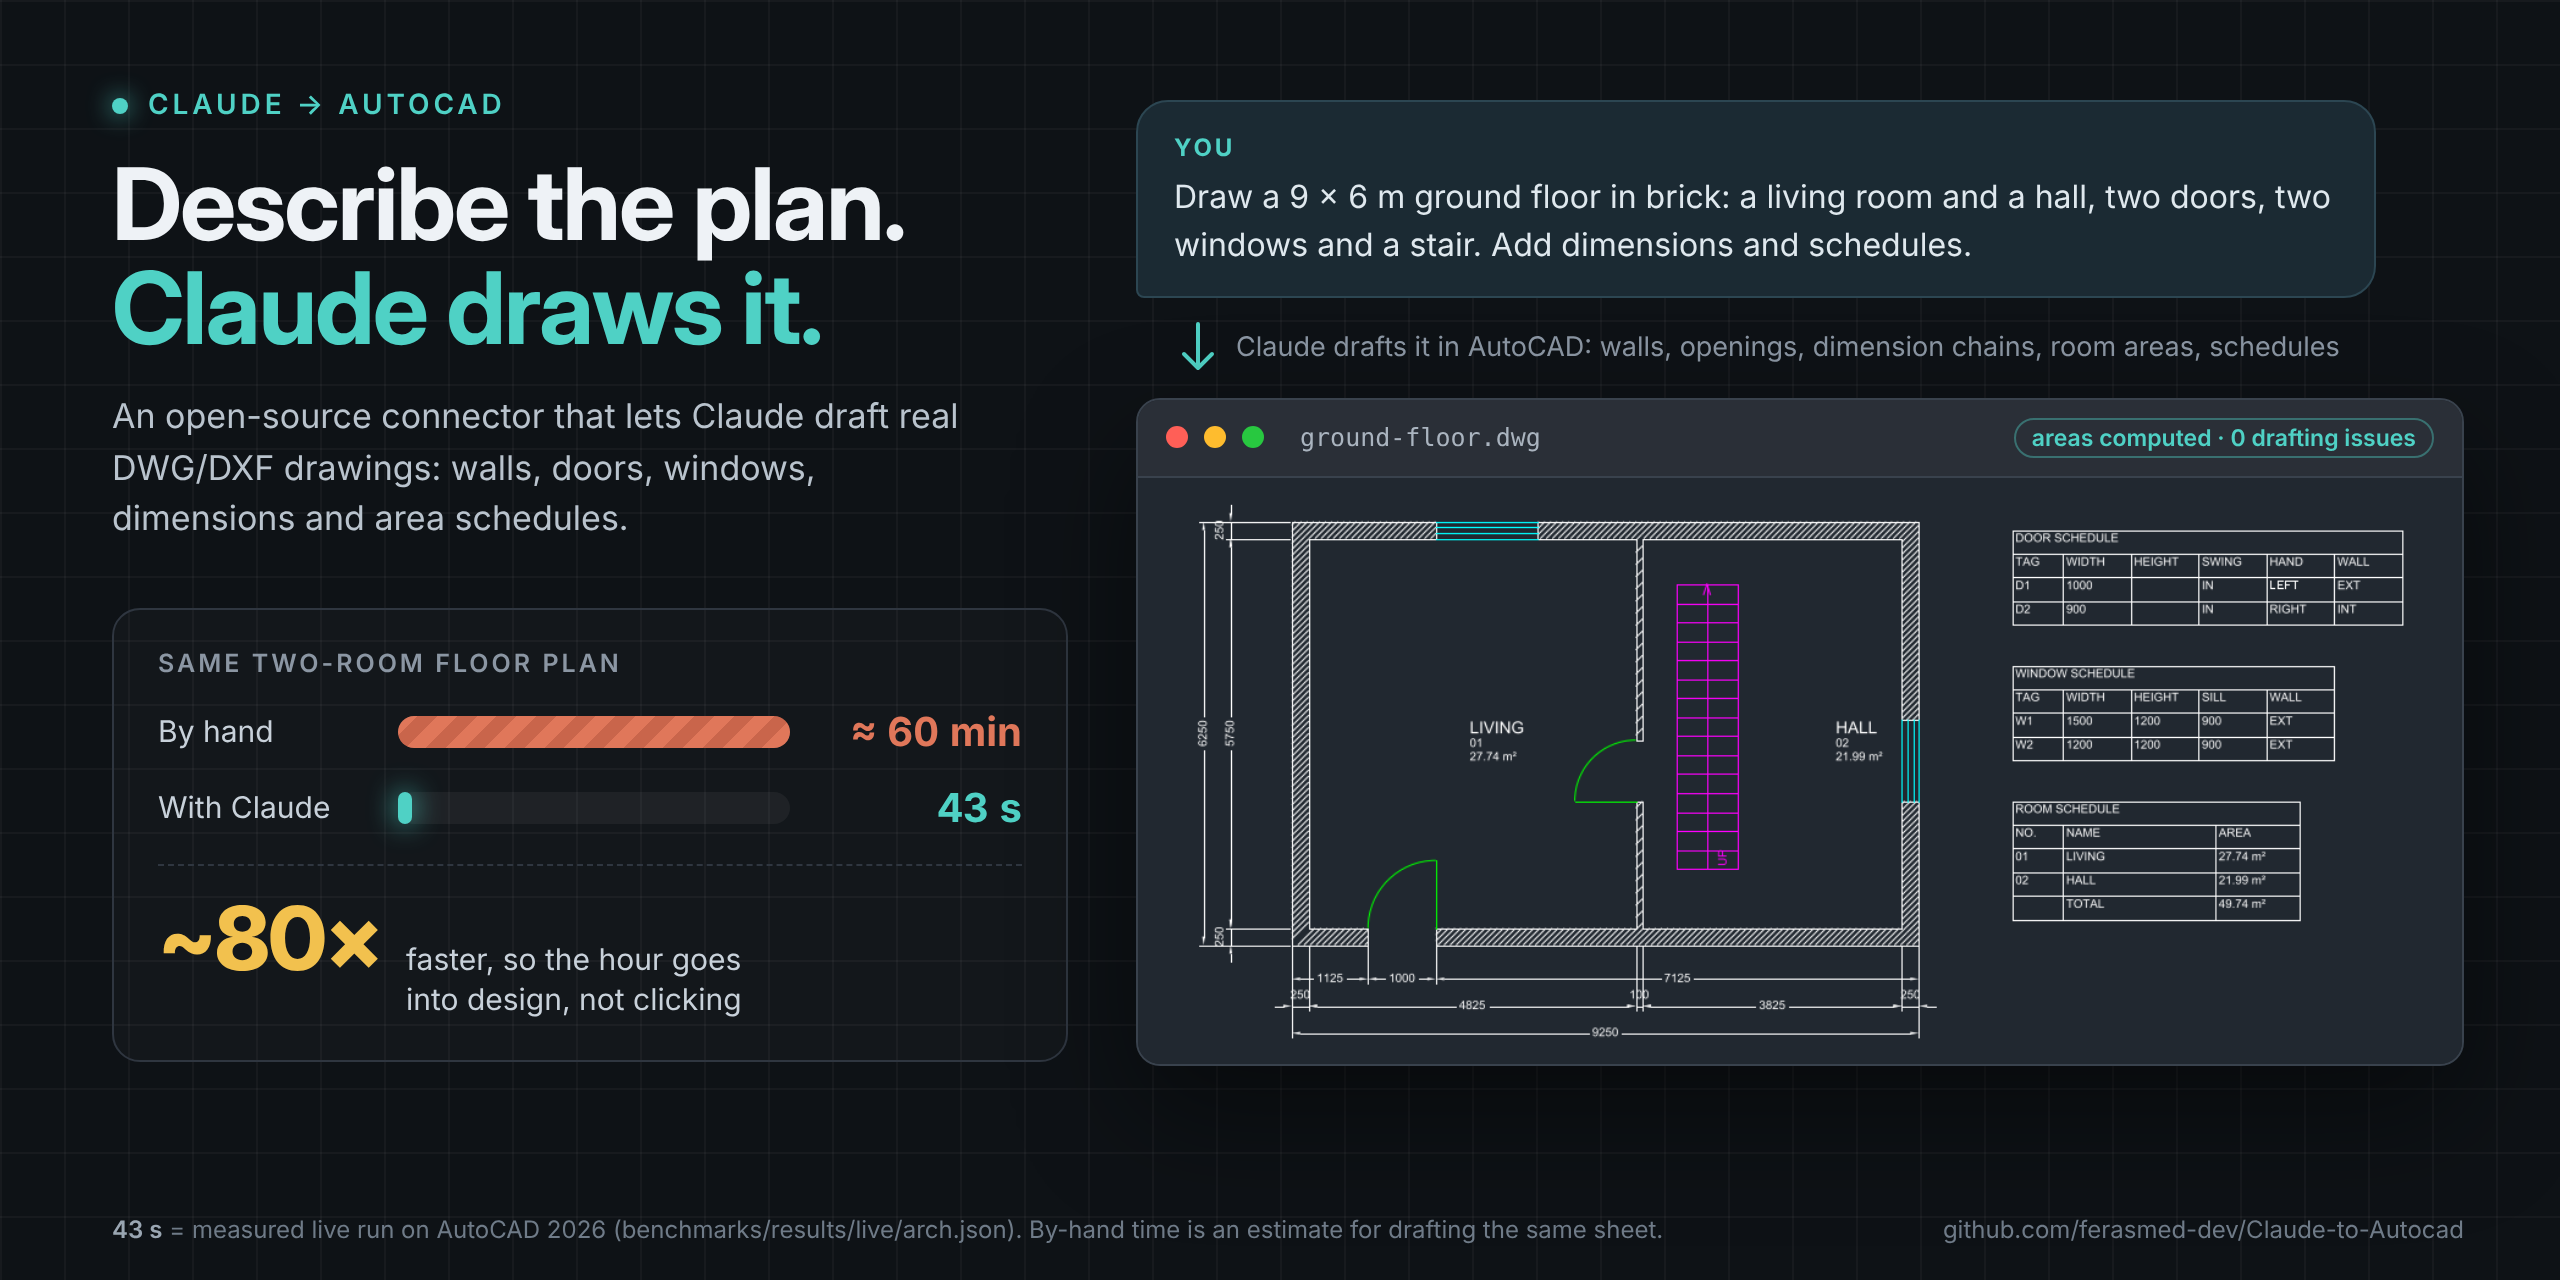
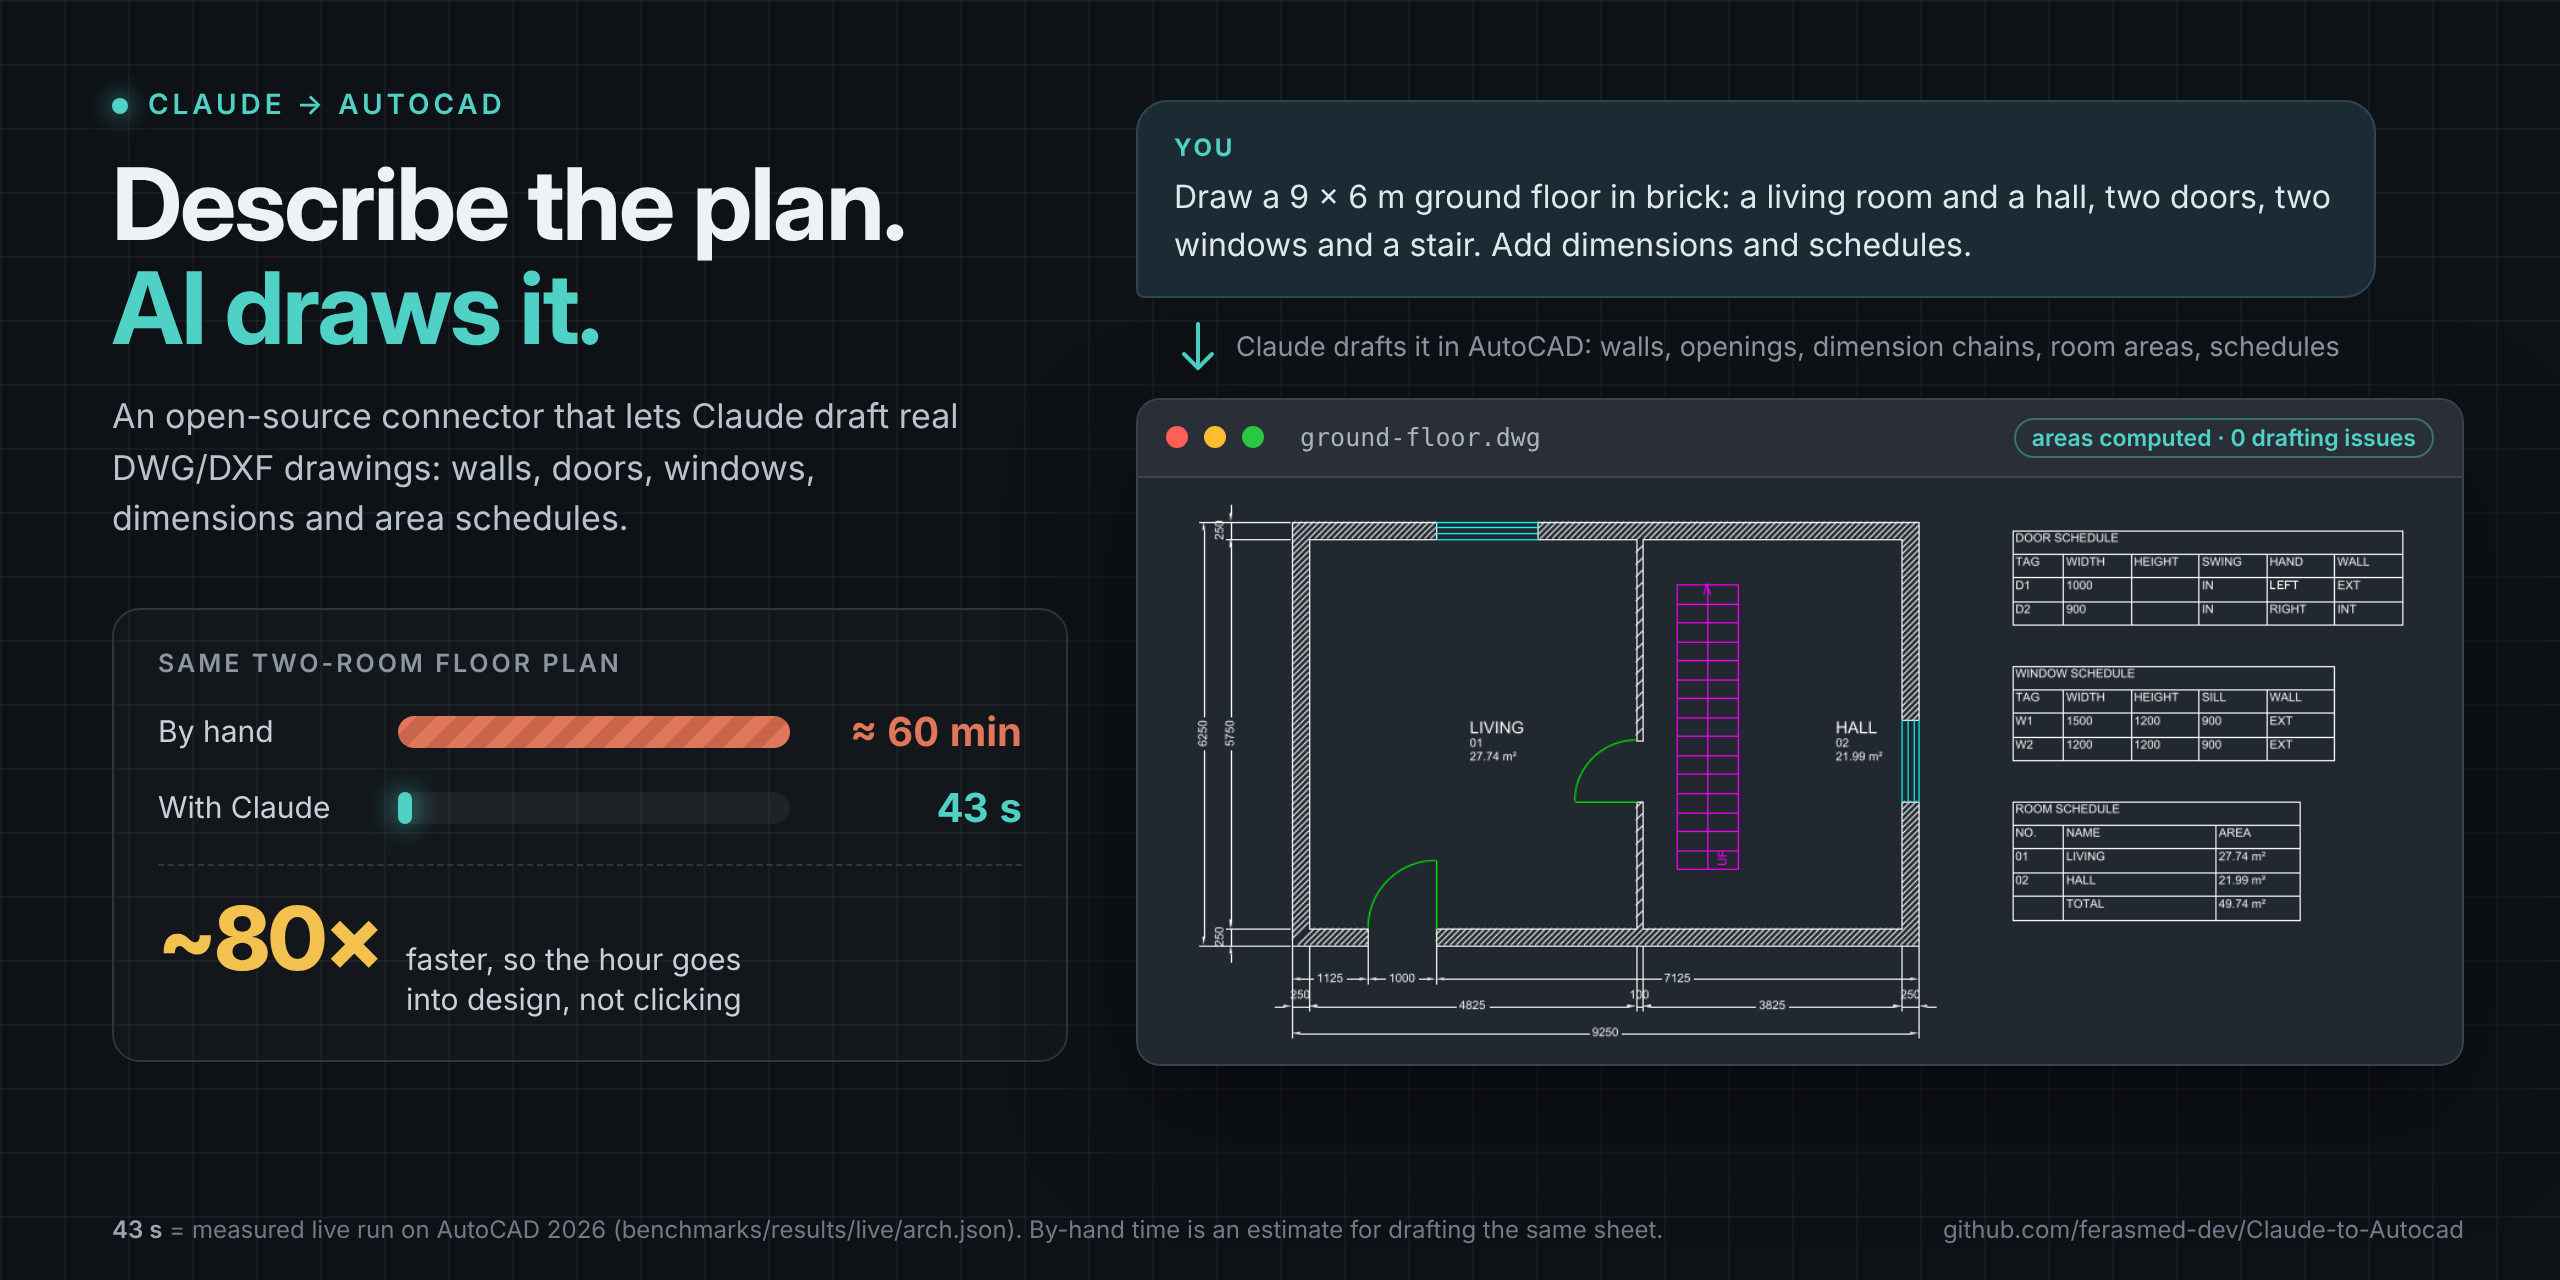
Hero image: headline now reads 'Describe the plan. AI draws it.'
Claude-Session: https://claude.ai/code/session_01MbyhriRn7S7R4EwFXEcJi4

Changed region(s): [[0.0312, 0.2188, 0.3125, 0.2812]]

diff --git a/README.md b/README.md
@@ -1,6 +1,6 @@
 # Autocad connector to Claude
 
-<p align="center"><img src="docs/assets/hero.png" alt="Describe a floor plan in plain words and Claude draws it in AutoCAD: a two-room plan with walls, doors, windows, dimensions and schedules, drawn in 43 seconds versus about an hour by hand" width="100%"></p>
+<p align="center"><img src="docs/assets/hero.png" alt="Describe a floor plan in plain words and AI draws it in AutoCAD: a two-room plan with walls, doors, windows, dimensions and schedules, drawn in 43 seconds versus about an hour by hand" width="100%"></p>
 
 > Republished by [ferasmed-dev](https://github.com/ferasmed-dev).
 > Based on [U-C4N/Autocad-MCP](https://github.com/U-C4N/Autocad-MCP) by Umutcan Edizsalan,
